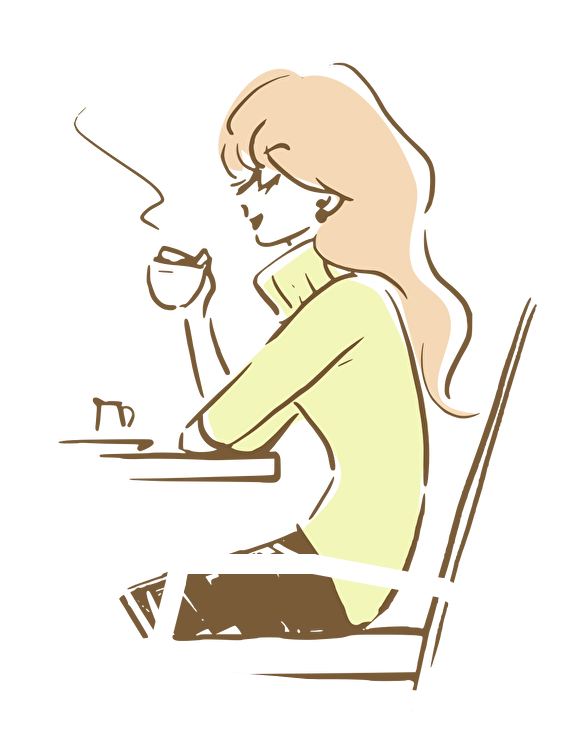
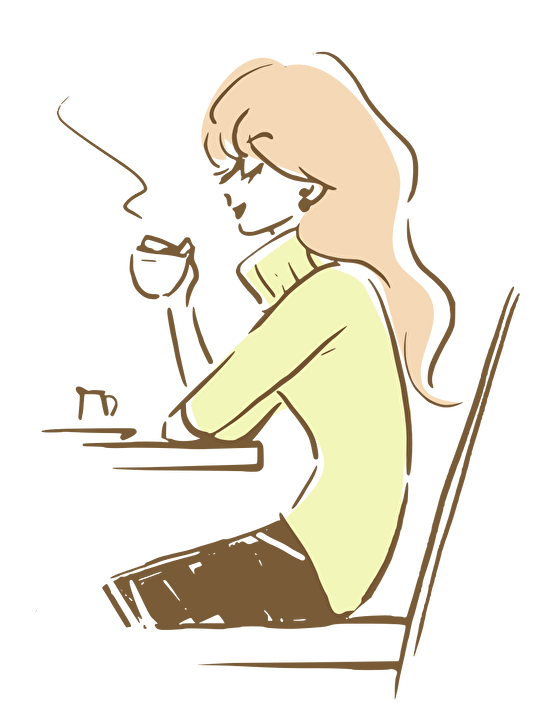
Add welcome message and images to menu.

diff --git a/index.html b/index.html
@@ -8,14 +8,17 @@
     <body>
         <div id="menu">
         <h1 id="title">Odin Recipes</h1>
+        <p id="welcome">Welcome to Odin Recipes!<br>
+        Please try these simple recipes for your relaxing time.&#x1f609 </p>
         <ul class="list-styles">
-            <li><a href="../odin-recipes/recipes/mocha.html">Mocha</a></li>
-            <li><a href="../odin-recipes/recipes/chai-latte.html">Chai Latte</a></li>
-            <li><a href="../odin-recipes/recipes/matcha-latte.html">Matcha-latte</a></li>
+            <li><a href="../odin-recipes/recipes/mocha.html"><img id="mocha" src="./images/mocha.png" alt="Mocha"></a>
+                <p>Mocha</p></li>
+            <li><a href="../odin-recipes/recipes/chai-latte.html"><img id="chai-latte" src="./images/chai-latte.png" alt="Chai latte"></a> <p>Chai Latte</p></li>
+            <li><a href="../odin-recipes/recipes/matcha-latte.html"><img id="matcha-latte" src="./images/matcha-latte.png" alt="Matcha latte"></a> <p>Matcha-latte</p></li>
         </ul>
         </div>
 
-        <img src="./images/cafe.png" alt="A woman who is drinking a cup of coffee">
+        <img class="girl" src="./images/cafe.png" alt="A woman who is drinking a cup of coffee">
 
         
     </body>

diff --git a/recipes/style.css b/recipes/style.css
@@ -2,15 +2,19 @@
 
 #title{
     font-family:"Times New Roman", Georgia, sans-serif;
-    font-size: 320%;
+    font-size: 120px;
     color:#14C38E;
 }
 
 /*menu*/
 
 .list-styles{
-    list-style-type: square;
+    list-style-type: none;
     font-size:120%;
+    display: flex;
+    justify-content: space-between;
+    text-align: center;
+    margin-left: 0;
 }
 
 /*
@@ -27,4 +31,26 @@ body{
 body{
     display: flex;
     justify-content: space-around;
+}
+
+.girl{
+    min-height: 100vh;
+    width: auto;
+}
+
+#mocha, #chai-latte, #matcha-latte{
+    height: 100px;
+    width: auto;
+    padding: 10px;
+}
+
+#menu{
+    display: flex;
+    flex-direction: column;
+    justify-content: space-evenly;
+}
+
+#menu #welcome{
+    font-size: 20px;
+    
 }
